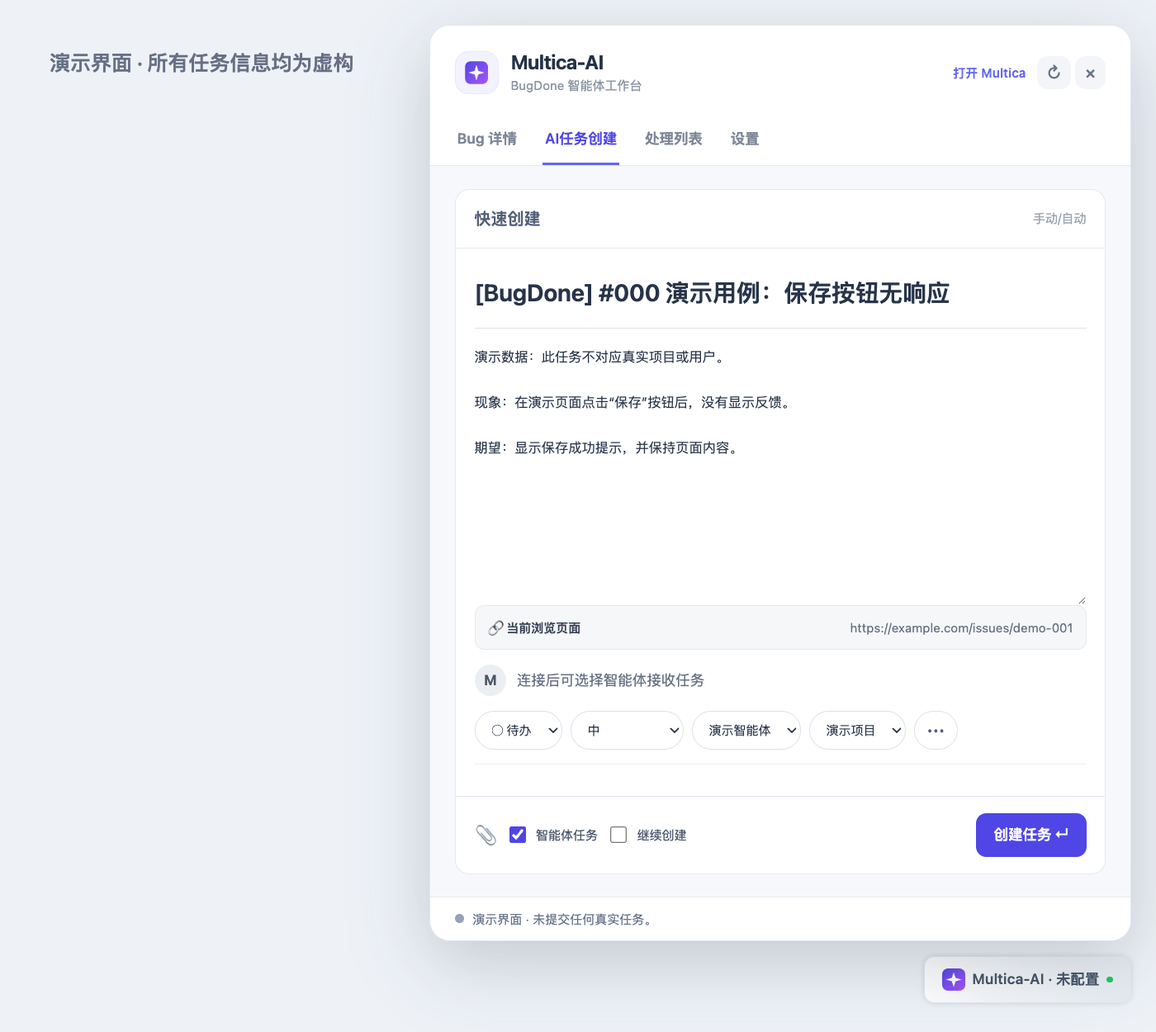
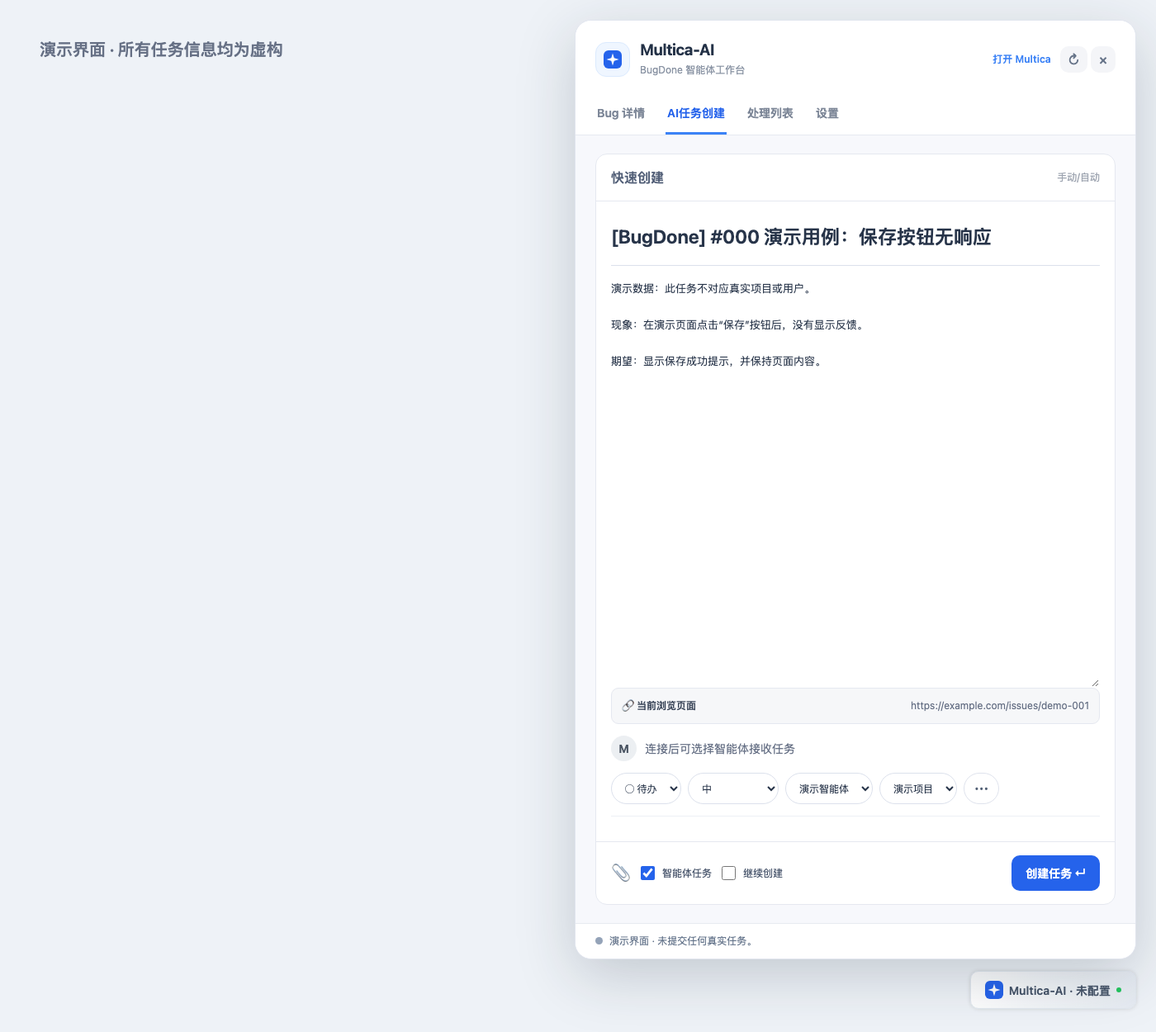
feat: add sidebar panel mode and blue UI settings

diff --git a/bugdone-multica.user.js b/bugdone-multica.user.js
@@ -1,7 +1,7 @@
 // ==UserScript==
 // @name         BugDone 接入 Multica
 // @namespace    local.bugdone.multica
-// @version      1.0.3
+// @version      1.0.4
 // @description  BugDone桥接Multica智能体
 // @updateURL    https://raw.githubusercontent.com/bosong/bugdone-multica-bridge/main/bugdone-multica.user.js
 // @downloadURL  https://raw.githubusercontent.com/bosong/bugdone-multica-bridge/main/bugdone-multica.user.js
@@ -220,7 +220,7 @@
   }
   // 调试桩：仅打印阶段、数量和 HTTP 状态，不打印令牌、请求头或 Bug 正文。
   const DEBUG = true;
-  const SCRIPT_VERSION = '1.0.3';
+  const SCRIPT_VERSION = '1.0.4';
   function debug(stage, data = {}, level = 'info') {
     if (DEBUG) console[level](`[BugDone→Multica] ${stage}`, data);
   }
@@ -256,11 +256,13 @@
   }
   let config = { api: 'https://api.multica.ai', workspace: '', workspaceAlias: '', token: '', agent: '', defaultAgent: '', project: '', projectAlias: '', label: '' };
   config.hideNativeAI = true;
+  config.displayMode = 'floating';
   let submittedBugs = [];
   const processingStates = new WeakMap(), processingRows = new Map();
   let processingRefreshPromise = null, processingRefreshAt = 0, processingRefreshContext = '';
   let launchPosition = readValue('launchPosition', null);
   config = { ...config, ...(readValue('config', config) || {}) };
+  if (!['floating', 'sidebar'].includes(config.displayMode)) config.displayMode = 'floating';
   let connectionPhase = 'idle';
   function setConnectionPhase(phase, expectedTag) {
     if (expectedTag && root && expectedTag !== connectionCacheTag($('api').value, $('token').value)) return;
@@ -301,6 +303,12 @@
     setTimeout(() => observer.disconnect(), 15000);
   }
   const $ = id => root.getElementById(id);
+  function applyPanelMode(mode) {
+    config.displayMode = mode === 'sidebar' ? 'sidebar' : 'floating';
+    $('panel').dataset.display = config.displayMode;
+    $('mode-sidebar').setAttribute('aria-pressed', String(config.displayMode === 'sidebar'));
+    $('mode-floating').setAttribute('aria-pressed', String(config.displayMode === 'floating'));
+  }
   function collect(data) {
     try {
       const items = parseResponse(data);
@@ -410,7 +418,7 @@
   }
   function message(text, kind = 'info') { const el = $('message'); el.textContent = text; el.className = `status-${kind}`; }
   function settings() {
-    return validateConfig({ api: $('api').value.trim(), workspace: $('workspace').value, workspaceAlias: $('workspace').selectedOptions[0]?.textContent || '', token: $('token').value, project: $('default-project').value, projectAlias: $('default-project').selectedOptions[0]?.textContent || '', agent: $('agent').value, defaultAgent: $('default-agent').value, label: $('default-label').value, hideNativeAI: $('hide-native-ai').checked });
+    return validateConfig({ api: $('api').value.trim(), workspace: $('workspace').value, workspaceAlias: $('workspace').selectedOptions[0]?.textContent || '', token: $('token').value, project: $('default-project').value, projectAlias: $('default-project').selectedOptions[0]?.textContent || '', agent: $('agent').value, defaultAgent: $('default-agent').value, label: $('default-label').value, hideNativeAI: $('hide-native-ai').checked, displayMode: config.displayMode });
   }
   function request(c) {
     return (method, path, body) => new Promise((resolve, reject) => {
@@ -775,23 +783,25 @@
     root.innerHTML = `<style>
       :host{all:initial;font-family:Inter,-apple-system,BlinkMacSystemFont,"Segoe UI","PingFang SC",sans-serif;color:#243247;font-size:14px;line-height:1.5;color-scheme:light}
       *,*::before,*::after{box-sizing:border-box} [hidden]{display:none!important}
-      button,input,select,textarea{font:inherit} button{cursor:pointer;border:1px solid transparent;border-radius:10px;background:#4f46e5;color:#fff;padding:10px 16px;font-weight:600;transition:background .15s,box-shadow .15s}
-      button:hover{background:#4338ca} button:disabled{opacity:.5;cursor:wait} button:focus-visible,a:focus-visible{outline:3px solid #a5b4fc;outline-offset:3px}
+      button,input,select,textarea{font:inherit} button{cursor:pointer;border:1px solid transparent;border-radius:10px;background:#2563eb;color:#fff;padding:10px 16px;font-weight:600;transition:background .15s,box-shadow .15s}
+      button:hover{background:#1d4ed8} button:disabled{opacity:.5;cursor:wait} button:focus-visible,a:focus-visible{outline:3px solid #93c5fd;outline-offset:3px}
       #launch{position:fixed;right:24px;bottom:28px;z-index:2147483646;display:flex;align-items:center;gap:7px;padding:11px 17px;background:linear-gradient(to right,#fff,#F5F7FA,#EEF2F6,#E6EBF2);box-shadow:0 0 5px #00000024;color:#475569;font-size:14px;border:1px solid #e2e8f0;border-radius:10px;touch-action:none;user-select:none}
       #launch:hover{background:linear-gradient(to right,#fff,#F5F7FA,#EEF2F6);box-shadow:0 4px 18px #47556926} #launch img{width:22px;height:22px;object-fit:contain} .status-dot{width:6px;height:6px;border-radius:50%;background:#22c55e}
       #panel{position:fixed;right:24px;top:24px;bottom:88px;width:min(680px,calc(100vw - 48px));z-index:2147483647;display:flex;flex-direction:column;background:#f7f8fc;border:1px solid #e1e5ee;border-radius:20px;box-shadow:0 20px 70px #1e293b35;overflow:hidden}
-      header{display:flex;justify-content:space-between;align-items:center;padding:23px 24px 18px;background:#fff;gap:12px}.brand{display:flex;align-items:center;gap:12px}.brand-icon{width:42px;height:42px;padding:9px;border:1px solid #e9e7ff;border-radius:13px;background:#f3f2ff}.brand h2{font-size:19px;line-height:1.3;margin:0;letter-spacing:-.4px}.brand small{font-size:12px;color:#8993a3}.icon-button{background:#f4f5f8;color:#677489;font-size:22px;line-height:1;padding:8px 12px}.icon-button:hover{background:#e8eaf0}
-      .tabs{display:flex;padding:0 24px;gap:23px;background:#fff;border-bottom:1px solid #e7eaf1}.tabs button{border:0;border-bottom:3px solid transparent;border-radius:0;padding:13px 2px;color:#7c8697;background:transparent;white-space:nowrap}.tabs button[aria-selected=true]{color:#4f46e5;border-bottom-color:#6366f1}.tabs button:hover{color:#4f46e5}
-      .content{overflow-y:auto;min-height:0;flex:1;overscroll-behavior:contain;padding:22px 24px}.section-intro{display:flex;align-items:center;justify-content:space-between;gap:10px;margin-bottom:16px}.eyebrow{font-size:11px;letter-spacing:1.6px;color:#9399aa;font-weight:700}.section-intro h3{margin:3px 0 0;font-size:17px;color:#273449}.badge{font-size:12px;padding:4px 9px;border-radius:20px;color:#4f46e5;background:#eeedff;white-space:nowrap}.empty{padding:30px 8px;text-align:center;color:#94a3b8}.processing-item{display:flex;align-items:center;justify-content:space-between;gap:12px;padding:14px 0;border-bottom:1px solid #edf0f5}.processing-item:last-child{border-bottom:0}.processing-main{min-width:0;flex:1}.processing-title{font-weight:600;white-space:nowrap;overflow:hidden;text-overflow:ellipsis}.processing-meta{margin-top:4px;color:#8791a3;font-size:12px;overflow-wrap:anywhere}.processing-status{margin-top:9px;padding-top:7px;border-top:1px solid #edf0f5;font-size:12px;color:#64748b}.processing-status[data-kind=ready]{color:#4f46e5}.processing-status[data-kind=error]{color:#b45309}.processing-delete{flex:none}.processing-actions{display:flex;align-items:center;gap:12px}.success{position:fixed;left:50%;top:18%;transform:translate(-50%,-50%);z-index:2147483648;display:flex;align-items:center;gap:12px;min-width:290px;max-width:calc(100vw - 40px);padding:15px 18px;background:#fff;border:1px solid #bbf7d0;border-radius:14px;box-shadow:0 18px 55px #14532d30}.success-mark{display:grid;place-items:center;width:32px;height:32px;border-radius:50%;background:#22c55e;color:#fff;font-size:21px;font-weight:800}.success strong{display:block;color:#166534}.success-copy{display:block;margin-top:3px;color:#64748b;font-size:12px;white-space:pre-line}.success-pop{animation:success-pop .35s ease-out}@keyframes success-pop{0%{opacity:0;transform:translate(-50%,-65%) scale(.9)}100%{opacity:1;transform:translate(-50%,-50%) scale(1)}}
-      .card{padding:18px;border:1px solid #e5e8f0;background:#fff;border-radius:14px;margin-bottom:16px}.card-title{font-weight:650;margin:0 0 12px}.field{margin-top:16px}.field:first-child{margin-top:0}label{display:block;font-size:13px;font-weight:600;color:#46536a;margin:0 0 7px}input,select,textarea{width:100%;padding:10px 12px;border:1px solid #dce1ec;border-radius:9px;background:#fff;color:#273449;outline:none}input:focus,select:focus,textarea:focus{border-color:#818cf8;box-shadow:0 0 0 3px #6366f112}textarea{resize:vertical;line-height:1.7;font-size:13px}input[readonly]{background:#f8f9fc;color:#64748b;font-size:12px}.hint,small{font-size:12px;line-height:1.7;color:#8791a3}.hint{margin:7px 0 0}.row{display:flex;gap:10px;margin-top:16px;align-items:center;flex-wrap:wrap}.row.end{justify-content:flex-end}.secondary{background:#fff;border-color:#dfe3ed;color:#526075}.secondary:hover{background:#f1f3f9}.text-button{padding:4px 0;background:transparent;color:#6366f1;font-size:12px}.text-button:hover{background:transparent;color:#4338ca}.label-row{display:flex;align-items:center;justify-content:space-between;gap:8px;margin-bottom:7px}.label-row label{margin:0}
+      header{display:flex;justify-content:space-between;align-items:center;padding:23px 24px 18px;background:#fff;gap:12px}.brand{display:flex;align-items:center;gap:12px}.brand-icon{width:42px;height:42px;padding:9px;border:1px solid #dbeafe;border-radius:13px;background:#eff6ff}.brand h2{font-size:19px;line-height:1.3;margin:0;letter-spacing:-.4px}.brand small{font-size:12px;color:#8993a3}.icon-button{background:#f4f5f8;color:#677489;font-size:22px;line-height:1;padding:8px 12px}.icon-button:hover{background:#e8eaf0}
+      .tabs{display:flex;padding:0 24px;gap:23px;background:#fff;border-bottom:1px solid #e7eaf1}.tabs button{border:0;border-bottom:3px solid transparent;border-radius:0;padding:13px 2px;color:#7c8697;background:transparent;white-space:nowrap}.tabs button[aria-selected=true]{color:#2563eb;border-bottom-color:#3b82f6}.tabs button:hover{color:#2563eb}
+      .content{overflow-y:auto;min-height:0;flex:1;overscroll-behavior:contain;padding:22px 24px}.section-intro{display:flex;align-items:center;justify-content:space-between;gap:10px;margin-bottom:16px}.eyebrow{font-size:11px;letter-spacing:1.6px;color:#9399aa;font-weight:700}.section-intro h3{margin:3px 0 0;font-size:17px;color:#273449}.badge{font-size:12px;padding:4px 9px;border-radius:20px;color:#2563eb;background:#eff6ff;white-space:nowrap}.empty{padding:30px 8px;text-align:center;color:#94a3b8}.processing-item{display:flex;align-items:center;justify-content:space-between;gap:12px;padding:14px 0;border-bottom:1px solid #edf0f5}.processing-item:last-child{border-bottom:0}.processing-main{min-width:0;flex:1}.processing-title{font-weight:600;white-space:nowrap;overflow:hidden;text-overflow:ellipsis}.processing-meta{margin-top:4px;color:#8791a3;font-size:12px;overflow-wrap:anywhere}.processing-status{margin-top:9px;padding-top:7px;border-top:1px solid #edf0f5;font-size:12px;color:#64748b}.processing-status[data-kind=ready]{color:#2563eb}.processing-status[data-kind=error]{color:#b45309}.processing-delete{flex:none}.processing-actions{display:flex;align-items:center;gap:12px}.success{position:fixed;left:50%;top:18%;transform:translate(-50%,-50%);z-index:2147483648;display:flex;align-items:center;gap:12px;min-width:290px;max-width:calc(100vw - 40px);padding:15px 18px;background:#fff;border:1px solid #bbf7d0;border-radius:14px;box-shadow:0 18px 55px #14532d30}.success-mark{display:grid;place-items:center;width:32px;height:32px;border-radius:50%;background:#22c55e;color:#fff;font-size:21px;font-weight:800}.success strong{display:block;color:#166534}.success-copy{display:block;margin-top:3px;color:#64748b;font-size:12px;white-space:pre-line}.success-pop{animation:success-pop .35s ease-out}@keyframes success-pop{0%{opacity:0;transform:translate(-50%,-65%) scale(.9)}100%{opacity:1;transform:translate(-50%,-50%) scale(1)}}
+      .card{padding:18px;border:1px solid #e5e8f0;background:#fff;border-radius:14px;margin-bottom:16px}.card-title{font-weight:650;margin:0 0 12px}.field{margin-top:16px}.field:first-child{margin-top:0}label{display:block;font-size:13px;font-weight:600;color:#46536a;margin:0 0 7px}input,select,textarea{width:100%;padding:10px 12px;border:1px solid #dce1ec;border-radius:9px;background:#fff;color:#273449;outline:none}input:focus,select:focus,textarea:focus{border-color:#60a5fa;box-shadow:0 0 0 3px #3b82f612}textarea{resize:vertical;line-height:1.7;font-size:13px}input[readonly]{background:#f8f9fc;color:#64748b;font-size:12px}.hint,small{font-size:12px;line-height:1.7;color:#8791a3}.hint{margin:7px 0 0}.row{display:flex;gap:10px;margin-top:16px;align-items:center;flex-wrap:wrap}.row.end{justify-content:flex-end}.secondary{background:#fff;border-color:#dfe3ed;color:#526075}.secondary:hover{background:#f1f3f9}.text-button{padding:4px 0;background:transparent;color:#3b82f6;font-size:12px}.text-button:hover{background:transparent;color:#1d4ed8}.label-row{display:flex;align-items:center;justify-content:space-between;gap:8px;margin-bottom:7px}.label-row label{margin:0}
       .header-actions{display:flex;align-items:center;gap:8px}.header-actions .text-button{white-space:nowrap}.header-actions .icon-button{font-size:17px}.task-title{font-size:20px;font-weight:650;border:0;padding:8px 0}.task-description{min-height:250px;border:0;padding:8px 0;resize:vertical}.task-grid{display:grid;grid-template-columns:repeat(2,minmax(0,1fr));gap:12px}.task-grid .field{margin:0}.settings-group{border-top:1px solid #edf0f5;padding-top:18px;margin-top:18px}.settings-group:first-child{border-top:0;padding-top:0;margin-top:0}.settings-group h4{margin:0 0 12px;font-size:14px}.inline-control{display:flex;gap:8px}.inline-control>*:first-child{flex:1;min-width:0}.inline-control button{white-space:nowrap}.link-note{padding:10px 12px;border:1px solid #e5e8f0;border-radius:9px;background:#f8f9fc;font-size:12px;color:#64748b;overflow-wrap:anywhere}@media(max-width:520px){.task-grid{grid-template-columns:1fr}.header-actions .text-button{font-size:11px}}
-      .quick-card{padding:0;overflow:hidden}.quick-head,.quick-foot{display:flex;align-items:center;justify-content:space-between;padding:16px 18px;border-bottom:1px solid #e5e8f0}.quick-head strong{font-size:16px;color:#536078}.quick-head small{color:#9ca3af}.quick-body{padding:18px}.quick-body .task-title{font-size:23px;width:100%;border:0;border-bottom:1px solid #dce1ec;border-radius:0;box-shadow:none;padding-bottom:16px;margin-bottom:8px}.quick-body .task-title:focus{border-bottom-color:#818cf8}.quick-body .task-description{min-height:205px;width:100%;border:0;box-shadow:none}.quick-source{display:flex;justify-content:space-between;gap:10px;padding:12px;border:1px solid #e5e8f0;background:#f6f7f9;border-radius:9px;font-size:12px;color:#667085}.quick-source strong{color:#344054}.quick-assignee{display:flex;align-items:center;gap:10px;margin:14px 0;color:#667085}.quick-avatar{display:grid;place-items:center;width:31px;height:31px;border-radius:50%;background:#eceff2;color:#4b5563;font-weight:700}.quick-options{display:flex;flex-wrap:wrap;gap:8px}.quick-options select,.quick-options .more-button{width:auto;max-width:230px;border-radius:24px;padding:9px 12px;font-size:12px}.quick-dates{margin-top:14px;border-top:1px solid #edf0f5;padding-top:12px}.quick-dates summary{font-size:12px;color:#667085;cursor:pointer}.quick-foot{border-top:1px solid #e5e8f0;border-bottom:0;gap:8px;flex-wrap:wrap}.quick-foot label{display:flex;align-items:center;gap:6px;margin:0;font-weight:400;font-size:12px}.quick-foot input{width:17px;height:17px;accent-color:#4f46e5}.quick-foot .submit{width:auto;margin:0}.quick-foot .text-button{font-size:20px}.custom-server-panel{margin-top:10px;padding:12px;border:1px solid #e5e8f0;border-radius:9px;background:#f8f9fc}
+      .quick-card{padding:0;overflow:hidden}.quick-head,.quick-foot{display:flex;align-items:center;justify-content:space-between;padding:16px 18px;border-bottom:1px solid #e5e8f0}.quick-head strong{font-size:16px;color:#536078}.quick-head small{color:#9ca3af}.quick-body{padding:18px}.quick-body .task-title{font-size:23px;width:100%;border:0;border-bottom:1px solid #dce1ec;border-radius:0;box-shadow:none;padding-bottom:16px;margin-bottom:8px}.quick-body .task-title:focus{border-bottom-color:#60a5fa}.quick-body .task-description{min-height:205px;width:100%;border:0;box-shadow:none}.quick-source{display:flex;justify-content:space-between;gap:10px;padding:12px;border:1px solid #e5e8f0;background:#f6f7f9;border-radius:9px;font-size:12px;color:#667085}.quick-source strong{color:#344054}.quick-assignee{display:flex;align-items:center;gap:10px;margin:14px 0;color:#667085}.quick-avatar{display:grid;place-items:center;width:31px;height:31px;border-radius:50%;background:#eceff2;color:#4b5563;font-weight:700}.quick-options{display:flex;flex-wrap:wrap;gap:8px}.quick-options select,.quick-options .more-button{width:auto;max-width:230px;border-radius:24px;padding:9px 12px;font-size:12px}.quick-dates{margin-top:14px;border-top:1px solid #edf0f5;padding-top:12px}.quick-dates summary{font-size:12px;color:#667085;cursor:pointer}.quick-foot{border-top:1px solid #e5e8f0;border-bottom:0;gap:8px;flex-wrap:wrap}.quick-foot label{display:flex;align-items:center;gap:6px;margin:0;font-weight:400;font-size:12px}.quick-foot input{width:17px;height:17px;accent-color:#2563eb}.quick-foot .submit{width:auto;margin:0}.quick-foot .text-button{font-size:20px}.custom-server-panel{margin-top:10px;padding:12px;border:1px solid #e5e8f0;border-radius:9px;background:#f8f9fc}
       header .brand{min-width:0;flex:1}header .header-actions{flex:none;gap:4px}header .header-actions .icon-button{font-size:16px;padding:7px 9px}header .header-actions .text-button{padding:4px 6px}
       #view-multica{height:100%;min-height:max-content;display:flex;flex-direction:column}#view-multica .quick-card{flex:1 0 auto;display:flex;flex-direction:column;margin-bottom:0}#view-multica .quick-body{flex:1 0 auto;display:flex;flex-direction:column}#view-multica .task-description{flex:1 0 260px;height:auto;min-height:260px}
+      #panel[data-display="sidebar"]{position:fixed;top:0;right:0;bottom:0;left:auto;width:min(520px,100vw);height:100dvh;border-radius:0;border-top:0;border-right:0;border-bottom:0;box-shadow:-12px 0 48px #1e293b26}
+      .setting-row{display:flex;align-items:center;justify-content:space-between;gap:16px;padding:16px 0;border-bottom:1px solid #e5e8f0}.setting-row:last-child{border-bottom:0}.setting-copy{min-width:0}.setting-copy strong{display:block;font-size:13px;color:#273449}.setting-copy small{display:block;margin-top:4px}.setting-control{flex:none}.switch{position:relative;display:inline-flex;align-items:center;width:44px;height:26px;margin:0;cursor:pointer}.switch input{position:absolute;opacity:0;width:100%;height:100%;margin:0;cursor:pointer}.switch-track{width:44px;height:26px;border-radius:20px;background:#cbd5e1;transition:background .15s}.switch-track::after{content:"";display:block;width:20px;height:20px;margin:3px;border-radius:50%;background:#fff;box-shadow:0 1px 3px #1e293b33;transition:transform .15s}.switch input:checked+.switch-track{background:#2563eb}.switch input:checked+.switch-track::after{transform:translateX(18px)}.switch input:focus-visible+.switch-track{outline:3px solid #93c5fd;outline-offset:2px}.segmented{display:flex;padding:3px;border:1px solid #dce1ec;border-radius:9px;background:#f1f3f6}.segmented button{padding:8px 12px;border:0;background:transparent;color:#64748b;font-size:12px;white-space:nowrap}.segmented button:hover{background:#e5eaf2}.segmented button[aria-pressed="true"]{background:#fff;color:#1e293b;box-shadow:0 1px 4px #1e293b1c}.settings-group>.hint{margin:0 0 4px}.settings-group .field>.hint{margin:4px 0 0}
       #task-extras>summary{display:none}.quick-foot #submit{margin-left:auto}.quick-source #task-source{overflow:hidden;text-overflow:ellipsis;white-space:nowrap;max-width:50%}.quick-options select:hover{border-color:#b7becb}.quick-body .task-description:focus,.quick-body .task-title:focus{box-shadow:none}
-      #count{margin:0 0 14px;font-size:12px;color:#8290a5}#warning{margin:10px 0 0;font-size:12px;line-height:1.7;color:#896a31}#handoff-title{margin:0;color:#334155;font-weight:600;overflow-wrap:anywhere}#handoff-meta{margin:8px 0 0}.target{display:grid;gap:4px;overflow-wrap:anywhere}.target small{font-size:11px;text-transform:uppercase;letter-spacing:.8px}.target strong{font-weight:500;font-size:13px}.divider{height:1px;background:#edf0f5;margin:14px 0}.check{display:flex;align-items:flex-start;gap:9px;font-weight:400;line-height:1.7;margin-top:17px}.check input{width:16px;height:16px;flex:none;margin:3px 0;accent-color:#6366f1}.check span{font-size:12px;color:#66758b}.submit{width:100%;margin-top:16px}
+      #count{margin:0 0 14px;font-size:12px;color:#8290a5}#warning{margin:10px 0 0;font-size:12px;line-height:1.7;color:#896a31}#handoff-title{margin:0;color:#334155;font-weight:600;overflow-wrap:anywhere}#handoff-meta{margin:8px 0 0}.target{display:grid;gap:4px;overflow-wrap:anywhere}.target small{font-size:11px;text-transform:uppercase;letter-spacing:.8px}.target strong{font-weight:500;font-size:13px}.divider{height:1px;background:#edf0f5;margin:14px 0}.check{display:flex;align-items:flex-start;gap:9px;font-weight:400;line-height:1.7;margin-top:17px}.check input{width:16px;height:16px;flex:none;margin:3px 0;accent-color:#3b82f6}.check span{font-size:12px;color:#66758b}.submit{width:100%;margin-top:16px}
       footer{flex:none;padding:12px 24px;background:#fff;border-top:1px solid #e7eaf1}#message{white-space:pre-wrap;margin:0;font-size:12px;color:#64748b;overflow-wrap:anywhere;max-height:110px;overflow:auto;display:flex;align-items:flex-start;gap:8px}#message::before{content:"";width:9px;height:9px;flex:none;margin-top:4px;border-radius:50%;background:#94a3b8}.status-success::before{background:#22c55e!important}.status-warning::before{background:#eab308!important}.status-error::before{background:#ef4444!important}details summary{cursor:pointer;font-size:13px;font-weight:600;color:#536078}details textarea{margin-top:12px}.version{font-size:11px;color:#9aa3b2;text-align:center;margin:18px 0 0}
-      @media(max-width:520px){#panel{right:8px;top:8px;bottom:76px;width:calc(100vw - 16px);border-radius:15px}header{padding:16px}.tabs{padding:0 16px;gap:22px}.content{padding:16px}footer{padding:12px 16px}.card{padding:14px}#launch{right:12px;bottom:16px}}
+      @media(max-width:520px){#panel{right:8px;top:8px;bottom:76px;width:calc(100vw - 16px);border-radius:15px}#panel[data-display="sidebar"]{top:0;right:0;bottom:0;width:100vw;height:100dvh;border-radius:0}header{padding:16px}.tabs{padding:0 16px;gap:22px;overflow-x:auto}.content{padding:16px}footer{padding:12px 16px}.card{padding:14px}.setting-row{align-items:flex-start}.setting-control{align-self:center}#launch{right:12px;bottom:16px}}
       </style>
       <div id="success" class="success" hidden role="status" aria-live="polite"><span class="success-mark">✓</span><div><strong>创建成功</strong><span class="success-copy"></span></div></div>
       <button id="launch" aria-expanded="false" aria-controls="panel"><img src="/Templates/Default/Images/ai.webp" alt=""><span class="launch-text">Multica-AI · 未配置</span><span class="status-dot" aria-hidden="true"></span></button>
@@ -821,9 +831,9 @@
           </section>
           <section id="view-settings" role="tabpanel" aria-labelledby="tab-settings" hidden>
             <div class="section-intro"><div><div class="eyebrow">PREFERENCES</div><h3>设置</h3></div></div>
-            <div class="card"><div class="settings-group"><h4>基础配置</h4><div class="field"><label for="api">API 服务根地址</label><select id="api"></select><div id="custom-server-panel" class="custom-server-panel" hidden><label for="custom-api">添加自建服务器</label><div class="inline-control"><input id="custom-api" type="url" placeholder="https://your-multica.example"><button id="add-api" class="secondary">添加</button></div></div></div><div class="field"><label for="token">访问令牌（API Token）</label><input id="token" type="password" autocomplete="off"></div><div class="row"><button id="connect" data-action>手动连接 / 刷新</button></div></div>
-              <div class="settings-group"><h4>任务默认配置</h4><div class="field"><label for="workspace">默认工作区</label><select id="workspace"><option value="">请先连接</option></select></div><div class="field"><label for="default-project">默认项目</label><select id="default-project"><option value="">请先连接</option></select></div><div class="field"><label for="default-agent">默认处理智能体</label><select id="default-agent"><option value="">请先连接</option></select></div><div class="field"><label for="default-label">默认标签</label><select id="default-label"><option value="">不指定标签</option></select></div></div>
-              <div class="settings-group"><h4>其他配置</h4><label class="check"><input type="checkbox" id="hide-native-ai"><span>隐藏 BugDone 原有 AI 按钮（openIntelligentTracking）</span></label></div><div class="row"><button id="save" data-action>保存设置</button></div><p class="hint">令牌仅保存在当前站点的本地存储；自建服务器还需允许油猴或 Mac App 网络桥访问。</p></div>
+            <div class="card"><div class="settings-group"><h4>基础配置</h4><div class="field"><label for="api">API 服务根地址</label><select id="api"></select><p class="hint">选择官方服务，或添加你自己的 Multica 服务。</p><div id="custom-server-panel" class="custom-server-panel" hidden><label for="custom-api">添加自建服务器</label><div class="inline-control"><input id="custom-api" type="url" placeholder="https://your-multica.example"><button id="add-api" class="secondary">添加</button></div></div></div><div class="field"><label for="token">访问令牌（API Token）</label><input id="token" type="password" autocomplete="off"><p class="hint">用于连接 Multica，仅保存在当前站点的本地存储。</p></div><div class="row"><button id="connect" data-action>手动连接 / 刷新</button></div></div>
+              <div class="settings-group"><h4>任务默认配置</h4><div class="field"><label for="workspace">默认工作区</label><select id="workspace"><option value="">请先连接</option></select><p class="hint">新任务使用这个工作区，可随时切换。</p></div><div class="field"><label for="default-project">默认项目</label><select id="default-project"><option value="">请先连接</option></select><p class="hint">预先填入任务创建页，提交前仍可修改。</p></div><div class="field"><label for="default-agent">默认处理智能体</label><select id="default-agent"><option value="">请先连接</option></select><p class="hint">新任务默认指派给这位智能体。</p></div><div class="field"><label for="default-label">默认标签</label><select id="default-label"><option value="">不指定标签</option></select><p class="hint">新任务默认使用的标签，可留空。</p></div></div>
+              <div class="settings-group"><h4>UI 设置</h4><div class="setting-row"><div class="setting-copy"><strong>主面板显示样式</strong><small>选择工作台以侧边栏或浮窗方式显示</small></div><div class="setting-control segmented" role="group" aria-label="主面板显示样式"><button id="mode-sidebar" type="button" aria-pressed="false">侧边栏</button><button id="mode-floating" type="button" aria-pressed="true">浮窗</button></div></div><div class="setting-row"><div class="setting-copy"><strong>隐藏 BugDone 原有 AI 按钮</strong><small>隐藏页面内置的 AI 入口（openIntelligentTracking）</small></div><label class="switch setting-control" aria-label="隐藏 BugDone 原有 AI 按钮"><input type="checkbox" id="hide-native-ai"><span class="switch-track" aria-hidden="true"></span></label></div></div><div class="row"><button id="save" data-action>保存设置</button></div><p class="hint">自建服务器还需允许油猴或 Mac App 网络桥访问。</p></div>
             <p class="version">BugDone → Multica · v${SCRIPT_VERSION}</p>
           </section>
           <section id="view-processing" role="tabpanel" aria-labelledby="tab-processing" hidden>
@@ -844,6 +854,7 @@
     fillSelect('default-label', catalog.labels || [], config.label, '不指定标签');
     fillSelect('task-label', catalog.labels || [], config.label, '无标签');
     $('hide-native-ai').checked = config.hideNativeAI !== false;
+    applyPanelMode(config.displayMode);
     const launch = $('launch');
     if (launchPosition && Number.isFinite(Number(launchPosition.left)) && Number.isFinite(Number(launchPosition.top))) {
       launch.style.left = `${Number(launchPosition.left)}px`; launch.style.top = `${Number(launchPosition.top)}px`; launch.style.right = 'auto'; launch.style.bottom = 'auto';
@@ -969,6 +980,11 @@
       const taskId = id === 'default-project' ? 'task-project' : 'task-label'; $(taskId).value = $(id).value;
     });
     $('hide-native-ai').addEventListener('change', () => { config.hideNativeAI = $('hide-native-ai').checked; setNativeAIVisibility(config.hideNativeAI); try { writeValue('config', { ...config }); message(config.hideNativeAI ? '已隐藏 BugDone 原有 AI 按钮。' : '已显示 BugDone 原有 AI 按钮。', 'success'); } catch (e) { message('AI 按钮显示设置保存失败。', 'error'); } });
+    for (const [id, mode] of [['mode-sidebar', 'sidebar'], ['mode-floating', 'floating']]) $(id).onclick = () => {
+      applyPanelMode(mode);
+      try { writeValue('config', { ...config }); message(`已切换为${mode === 'sidebar' ? '侧边栏' : '浮窗'}模式。`, 'success'); }
+      catch (e) { message('主面板显示样式保存失败。', 'error'); }
+    };
     $('save').onclick = () => run(async () => {
       const base = validateConnection({ api: $('api').value, token: $('token').value });
       config = $('workspace').value ? settings() : { ...config, ...base, workspace: '' };

diff --git a/README.md b/README.md
@@ -4,11 +4,13 @@
 
 ![BugDone 接入 Multica 的界面预览](./assets/ui-preview.png)
 
-*界面预览由当前脚本生成。任务标题、描述、项目、智能体和来源链接均为虚构演示数据。*
+![侧边栏与 UI 设置预览](./assets/sidebar-preview.png)
+
+*界面预览由当前脚本生成。任务标题、描述、项目、智能体和来源链接均为虚构演示数据。设置中可切换侧边栏与浮窗模式。*
 
 ## 安装
 
-1. 从 [脚本安装地址](https://raw.githubusercontent.com/bosong/bugdone-multica-bridge/main/bugdone-multica.user.js) 安装 v1.0.3 到 Tampermonkey，打开并登录 BugDone。若已安装的旧版不含 `@updateURL`，需手动安装一次；之后可检查更新。
+1. 从 [脚本安装地址](https://raw.githubusercontent.com/bosong/bugdone-multica-bridge/main/bugdone-multica.user.js) 安装 v1.0.4 到 Tampermonkey，打开并登录 BugDone。若已安装的旧版不含 `@updateURL`，需手动安装一次；之后可检查更新。
 2. 打开某个 Bug 详情，点击右下角 **Multica-AI** 入口按钮；按钮文字会显示当前连接状态。
 3. 在设置的 API 服务下拉框中选择官方服务，或选择“添加自建服务器”后填写地址；再填写 API Token。脚本会自动读取并缓存工作区、项目、智能体和标签。以后启动直接恢复缓存，只有缓存缺失、Token 变化或手动刷新时才请求这些列表。
 4. 在 Bug 详情核对捕获内容，点击 **下一步：AI任务创建**，编辑任务标题、描述、状态、优先级、智能体、项目、标签或有效日期，然后创建任务。第一栏生成的标题以 `[BugDone] #编号` 开头，并在末尾带有用于查重的 Bug ID 标记。第二栏显示的标题和描述会原样提交；若删掉标题中的查重标记，脚本会阻止提交并提示重新生成。
